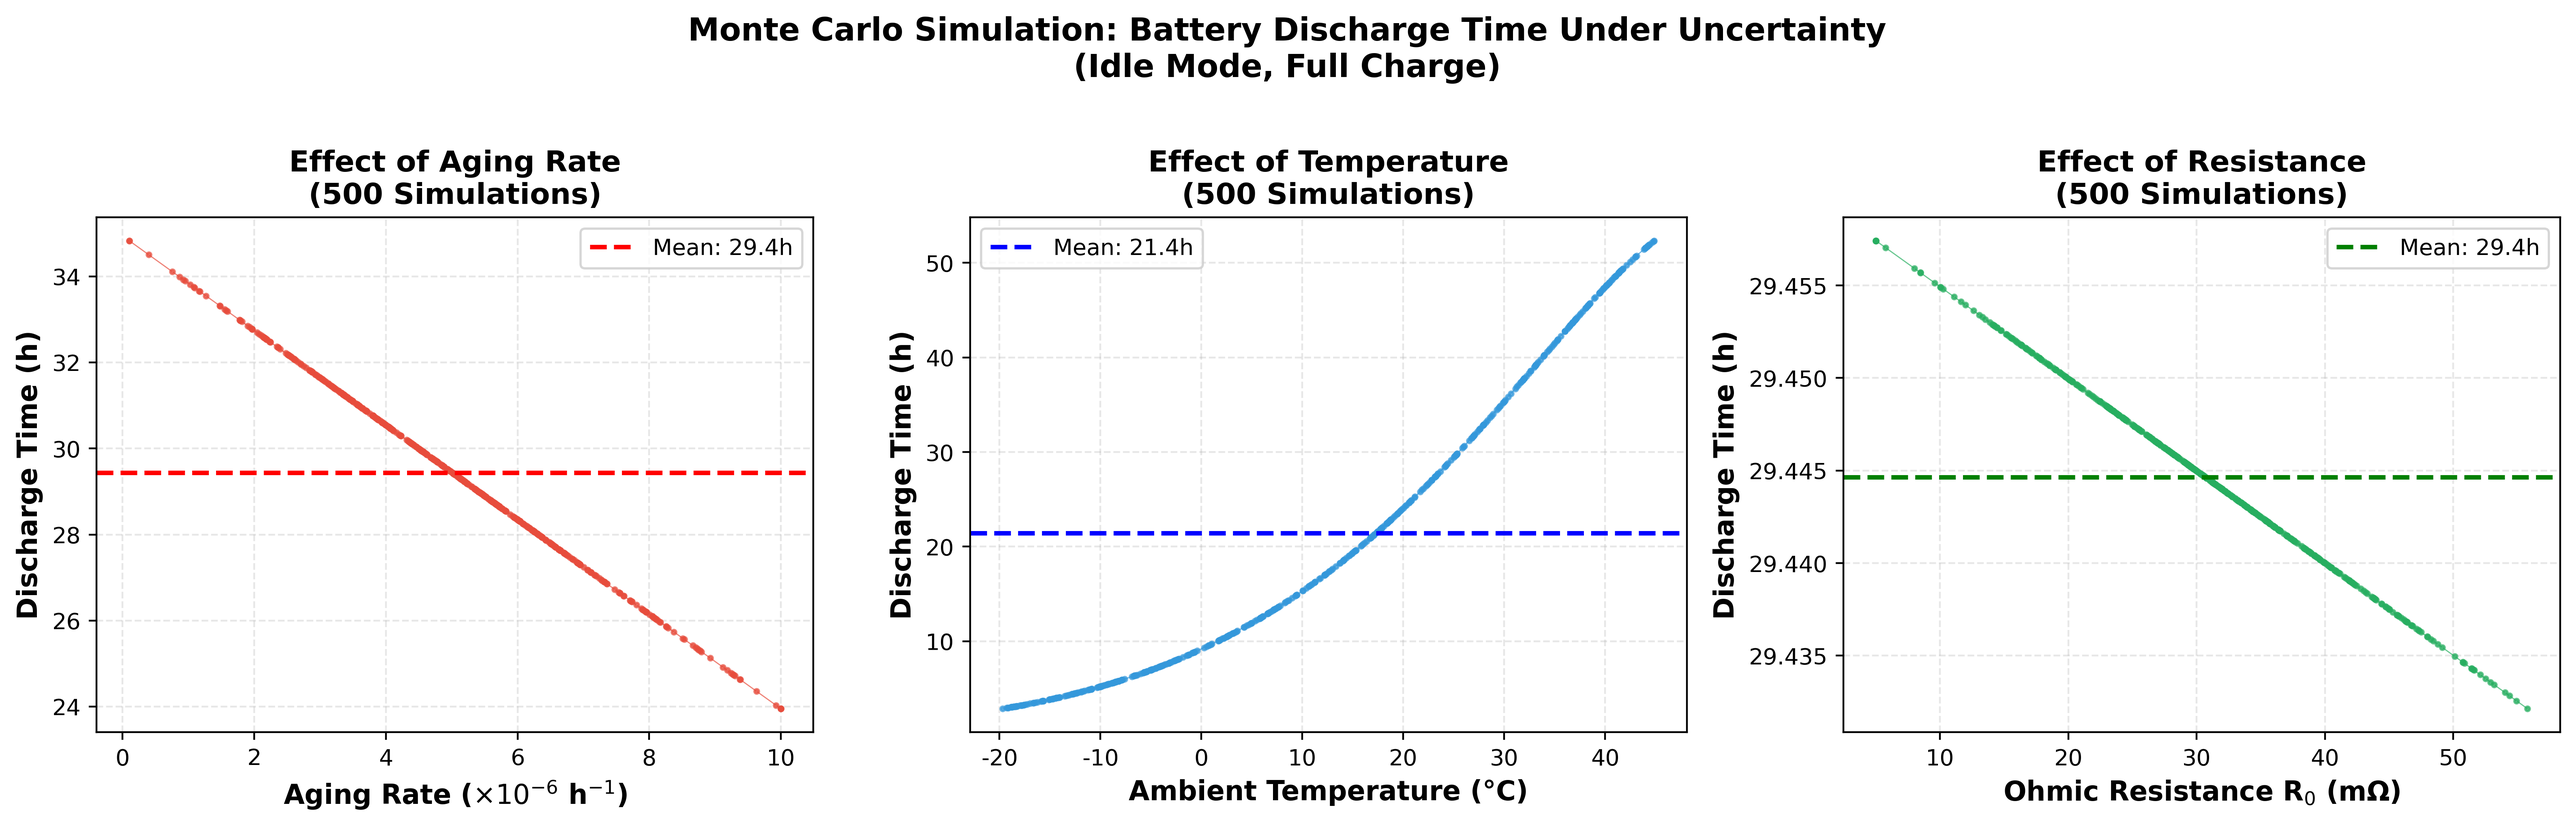
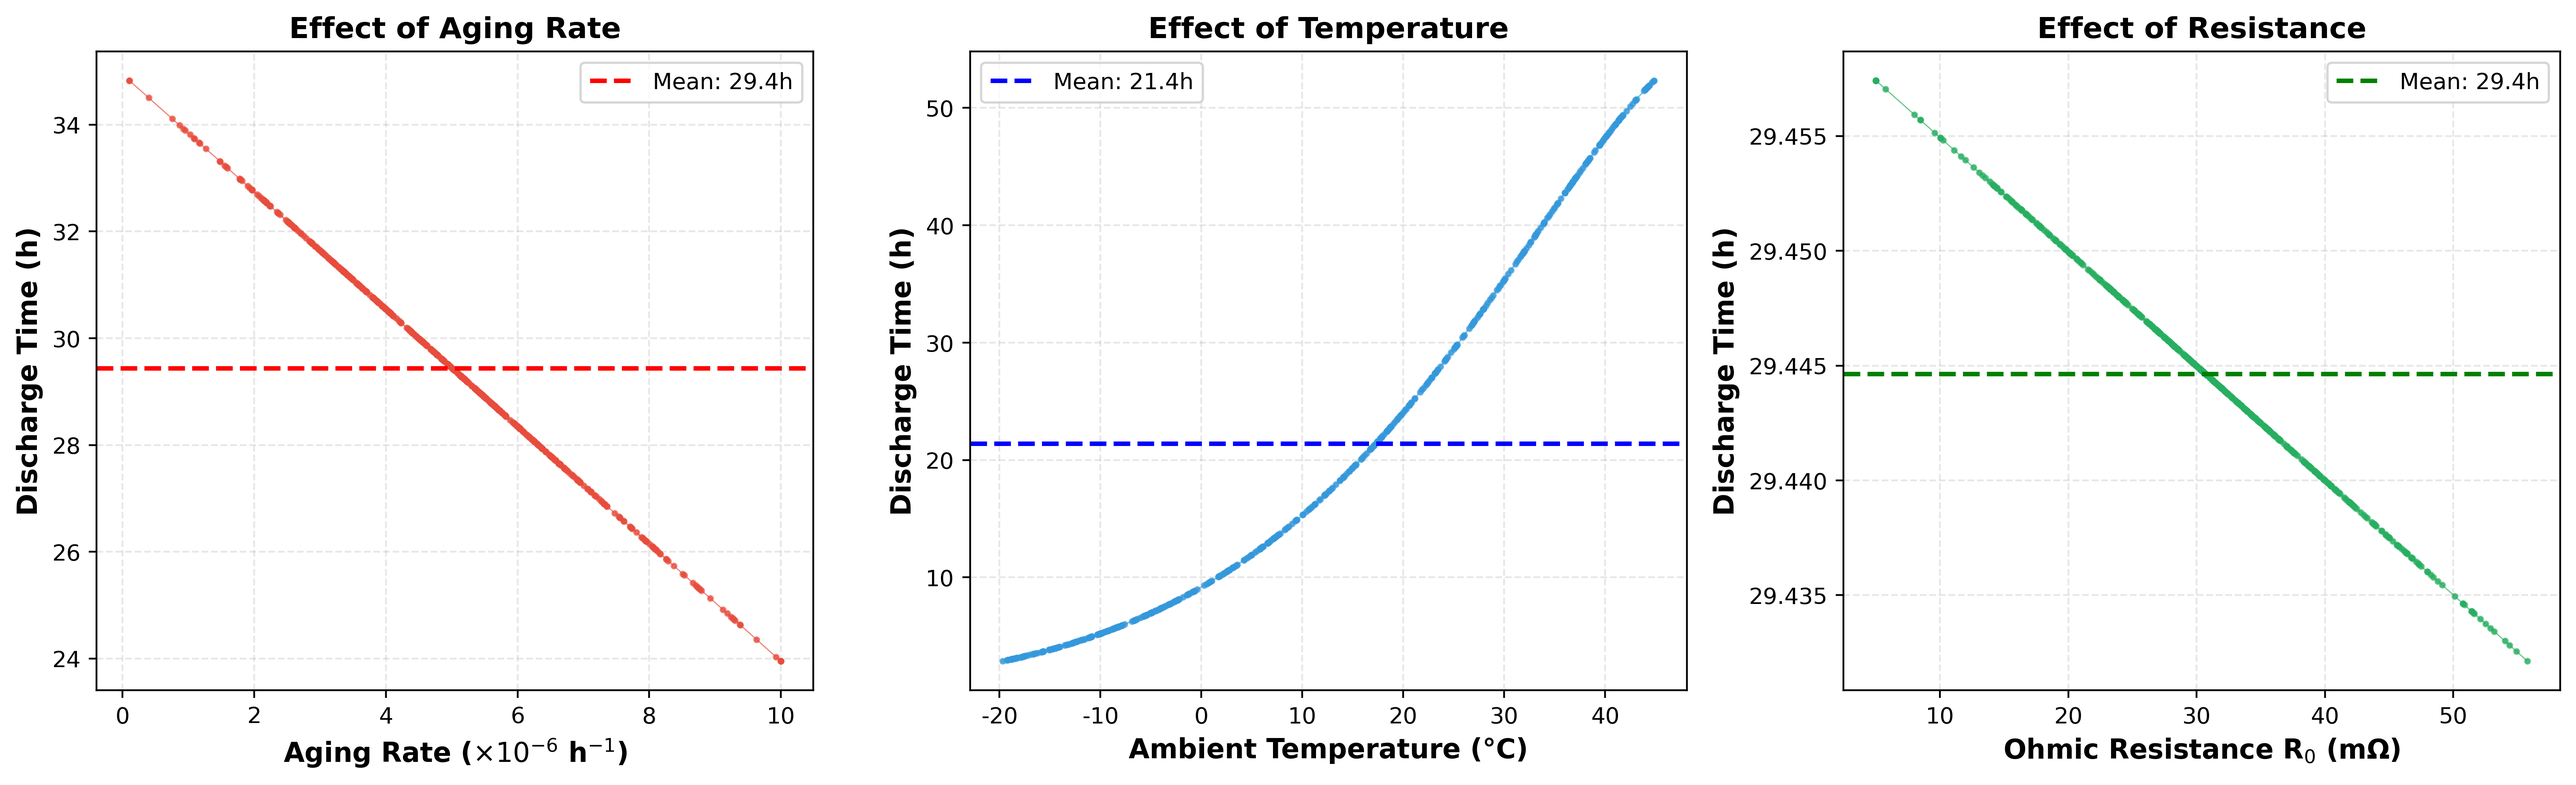
modify

diff --git a/问题3/mont.py b/问题3/mont.py
@@ -138,7 +138,7 @@ def plot_results(times_aging, times_temp, times_R0,
              'o-', color='#E74C3C', markersize=2, linewidth=0.5, alpha=0.7)
     ax1.set_xlabel('Aging Rate ($\\times 10^{-6}$ h$^{-1}$)', fontsize=12, fontweight='bold')
     ax1.set_ylabel('Discharge Time (h)', fontsize=12, fontweight='bold')
-    ax1.set_title('Effect of Aging Rate\n(500 Simulations)', fontsize=13, fontweight='bold')
+    ax1.set_title('Effect of Aging Rate', fontsize=13, fontweight='bold')
     ax1.grid(True, alpha=0.3, linestyle='--')
     
     mean_aging = np.nanmean(times_aging)
@@ -152,7 +152,7 @@ def plot_results(times_aging, times_temp, times_R0,
              'o-', color='#3498DB', markersize=2, linewidth=0.5, alpha=0.7)
     ax2.set_xlabel('Ambient Temperature (°C)', fontsize=12, fontweight='bold')
     ax2.set_ylabel('Discharge Time (h)', fontsize=12, fontweight='bold')
-    ax2.set_title('Effect of Temperature\n(500 Simulations)', fontsize=13, fontweight='bold')
+    ax2.set_title('Effect of Temperature', fontsize=13, fontweight='bold')
     ax2.grid(True, alpha=0.3, linestyle='--')
     
     mean_temp = np.nanmean(times_temp)
@@ -165,15 +165,15 @@ def plot_results(times_aging, times_temp, times_R0,
              'o-', color='#27AE60', markersize=2, linewidth=0.5, alpha=0.7)
     ax3.set_xlabel('Ohmic Resistance R$_0$ (mΩ)', fontsize=12, fontweight='bold')
     ax3.set_ylabel('Discharge Time (h)', fontsize=12, fontweight='bold')
-    ax3.set_title('Effect of Resistance\n(500 Simulations)', fontsize=13, fontweight='bold')
+    ax3.set_title('Effect of Resistance', fontsize=13, fontweight='bold')
     ax3.grid(True, alpha=0.3, linestyle='--')
     
     mean_R0 = np.nanmean(times_R0)
     ax3.axhline(mean_R0, color='green', linestyle='--', linewidth=2, label=f'Mean: {mean_R0:.1f}h')
     ax3.legend(loc='best', fontsize=10)
     
-    plt.suptitle('Monte Carlo Simulation: Battery Discharge Time Under Uncertainty\n(Idle Mode, Full Charge)', 
-                 fontsize=14, fontweight='bold', y=1.02)
+    #plt.suptitle('Monte Carlo Simulation: Battery Discharge Time Under Uncertainty', 
+    #             fontsize=14, fontweight='bold', y=1.02)
     
     plt.tight_layout()
     plt.savefig('monte_carlo_distribution.png', dpi=400, bbox_inches='tight')

diff --git a/问题1/plot.py b/问题1/plot.py
@@ -129,7 +129,7 @@ def plot_individual_charts(model, data):
     ax3.set_xlabel('Time(h)', fontweight='bold', fontsize=13)
     ax3.set_ylabel('Resistence(mΩ)', fontweight='bold', fontsize=13, color="#110F0F")
     ax3.tick_params(axis='y', labelcolor="#131111")
-    ax3.set_title('Internal resistance and temperature variation', fontsize=15, fontweight='bold', pad=15)
+    #ax3.set_title('Internal resistance and temperature variation', fontsize=15, fontweight='bold', pad=15)
     ax3.grid(True, alpha=0.3, linestyle='--')
     ax3.set_xlim([0, t_empty*1.05])
     
